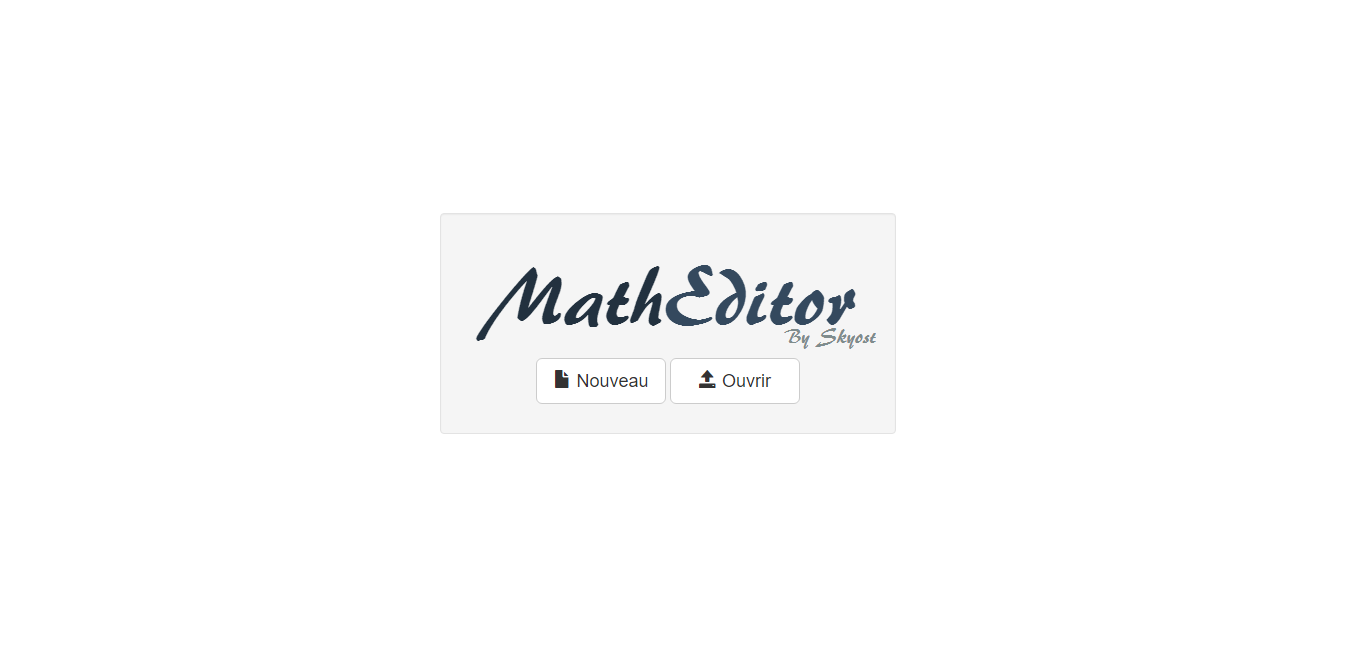
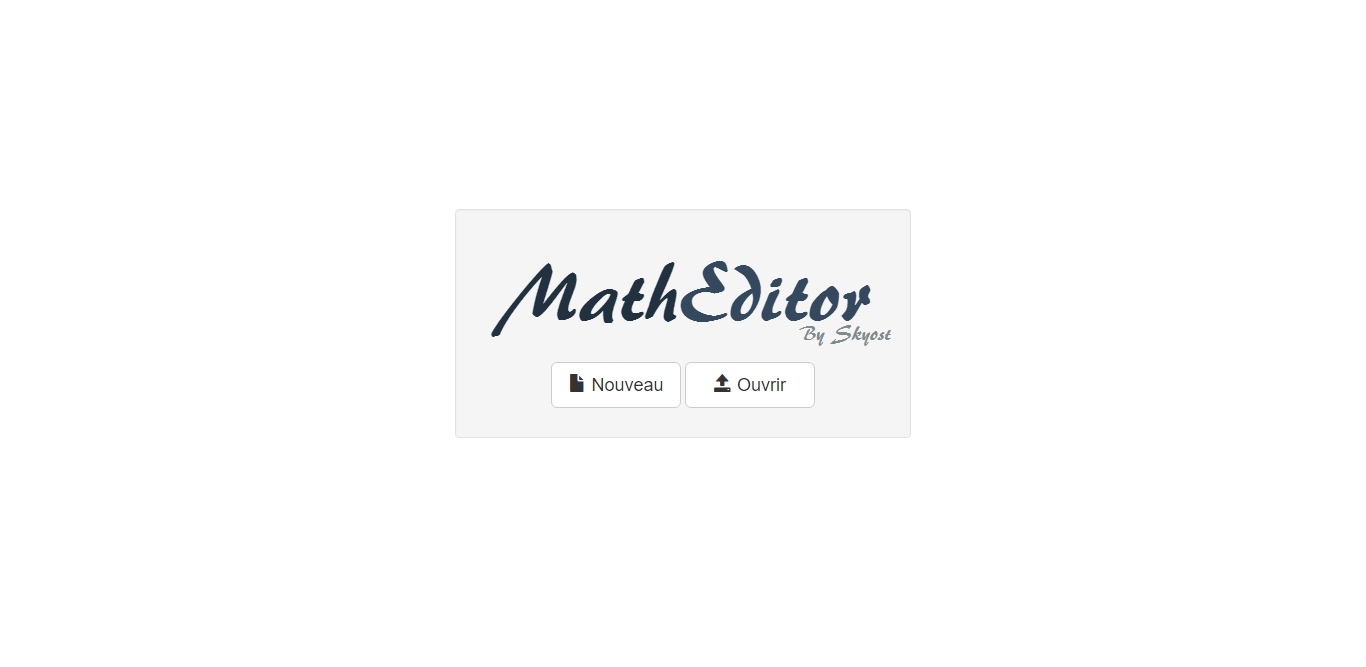
New screenshots and improved the responsability.

Changed region(s): [[0.3382, 0.3898, 0.6457, 0.5397], [0.3997, 0.5397, 0.5842, 0.6297]]

diff --git a/assets/css/editor.css b/assets/css/editor.css
@@ -90,6 +90,10 @@ html, body {
 	width: 130px;
 }
 
+#button-new, #button-open {
+	margin-top: 0.4em;
+}
+
 .vertical-center {
 	min-height: 100%;
 	min-height: 100vh;
